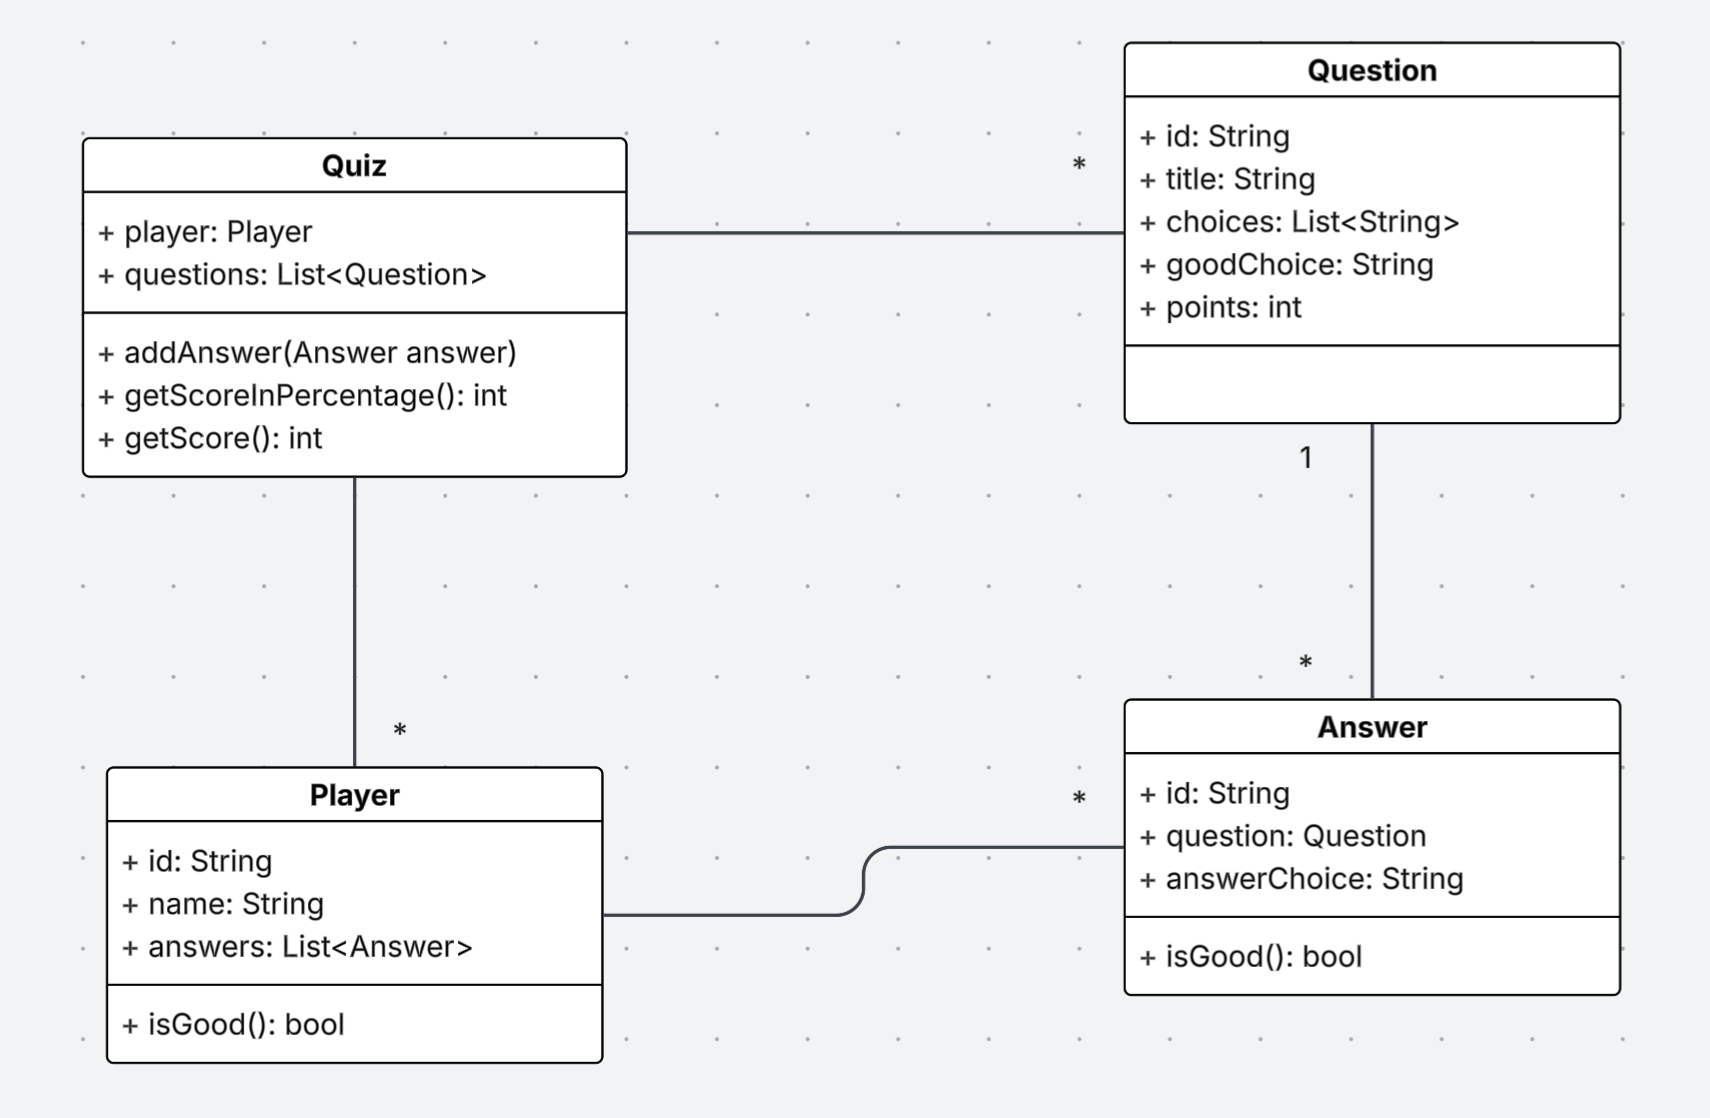
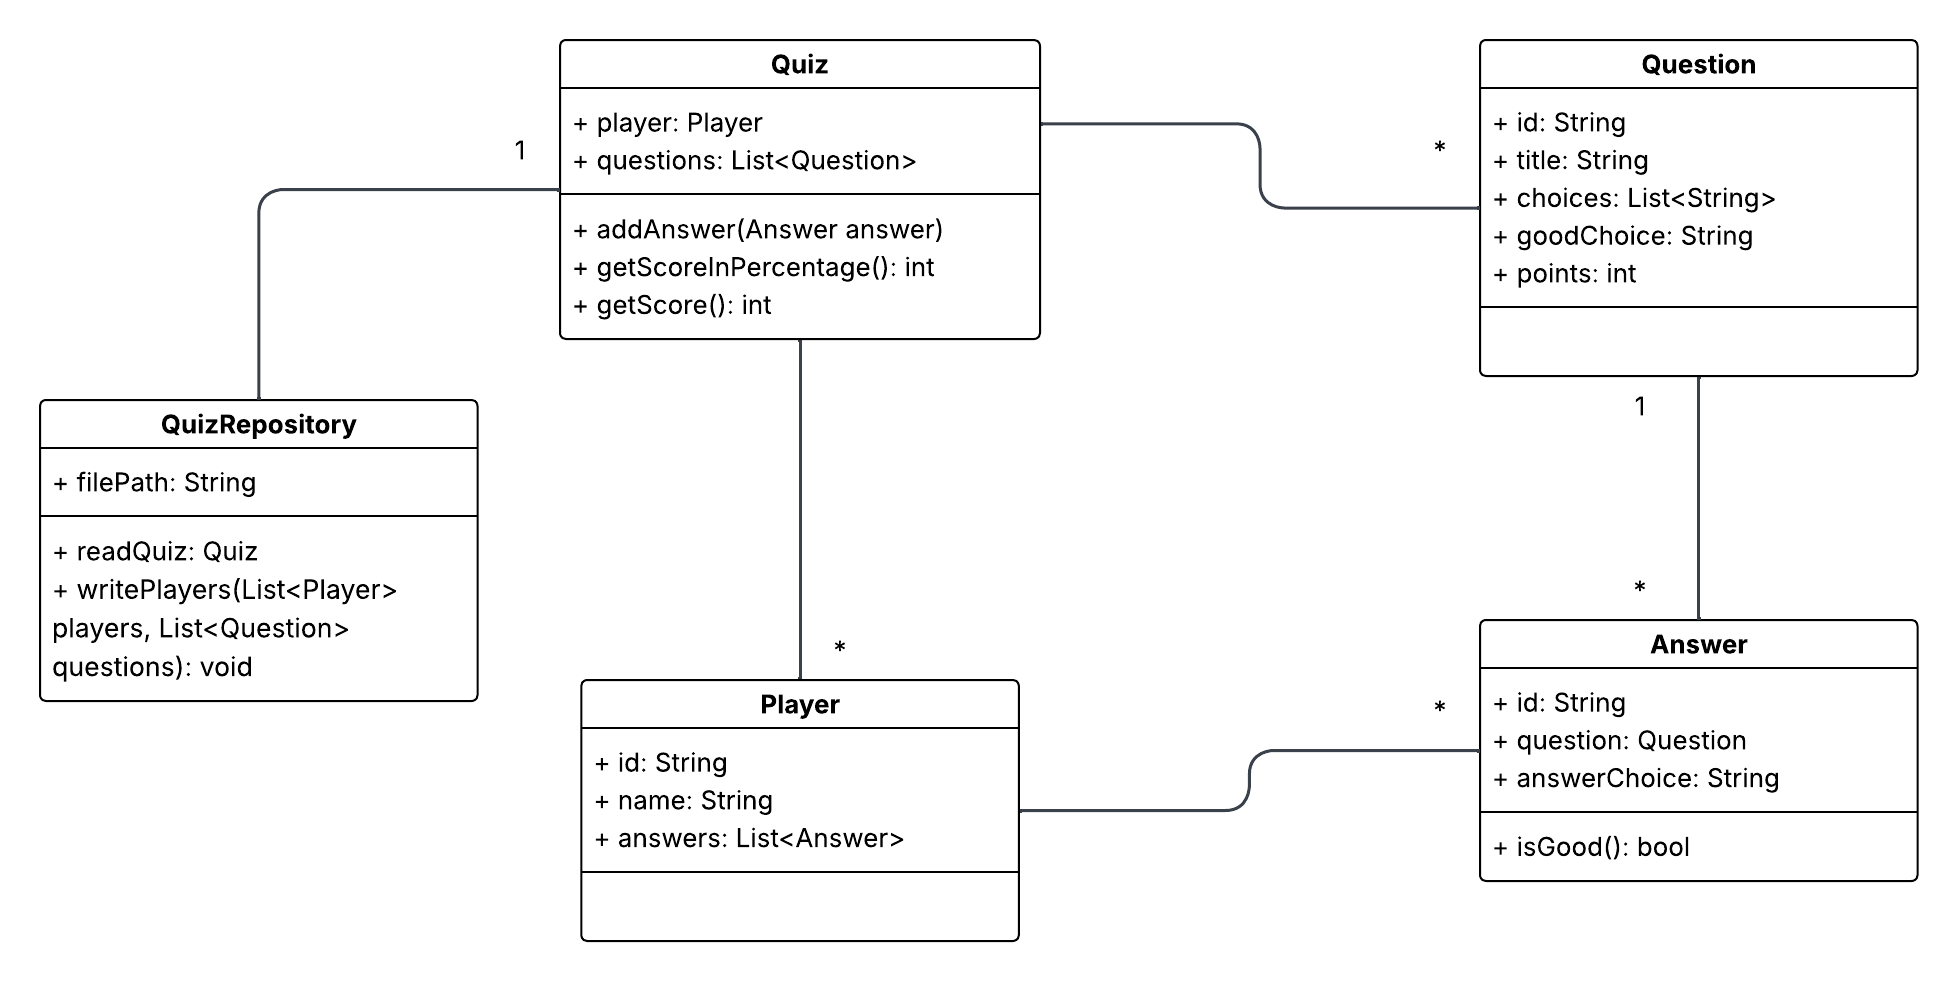
change player to list of players

diff --git a/lib/domain/quiz.dart b/lib/domain/quiz.dart
@@ -9,14 +9,14 @@ class Question {
   final String goodChoice;
   final int points;
 
-  Question({String? id, required this.title, required this.choices, required this.goodChoice, this.points = 1}) : id = uuid.v4();
+  Question({String? id, required this.title, required this.choices, required this.goodChoice, this.points = 1}) : id = id ?? uuid.v4();
 
   factory Question.fromJson(Map<String, dynamic> json) {
     return Question(
-      id: json['id'] as String,
-      title: json['title'] as String,
-      choices: List<String>.from(json['choices']),
-      goodChoice: json['goodChoice'] as String,
+      id: json['id'] as String?,
+      title: json['title'] as String? ?? '',
+      choices: List<String>.from(json['choices'] ?? []),
+      goodChoice: json['goodChoice'] as String? ?? '',
       points: (json['points'] is int) ? json['points'] as int : int.tryParse('${json['points']}') ?? 1,
     );
   }
@@ -37,14 +37,21 @@ class Answer {
   final Question question;
   final String answerChoice;
 
-  Answer({String? id, required this.question, required this.answerChoice}) : id = uuid.v4();
+  Answer({String? id, required this.question, required this.answerChoice}) : id = id ?? uuid.v4();
 
   factory Answer.fromJson(Map<String, dynamic> json, Map<String, Question> questionById) {
     final qid = json['questionId'] as String?;
+    if (qid == null) {
+      throw FormatException('Answer missing questionId: ${json}');
+    }
+    final question = questionById[qid];
+    if (question == null) {
+      throw FormatException('Answer references unknown questionId: $qid');
+    }
 
     return Answer(
-      id: json['id'] as String,
-      question: questionById[qid]!,
+      id: json['id'] as String?,
+      question: question,
       answerChoice: json['answerChoice'] as String? ?? '',
     );
   }
@@ -67,15 +74,25 @@ class Player {
   final String name;
   List<Answer> answers;
 
-  Player({String? id, required this.name, List<Answer>? answers})  : id = uuid.v4(), answers = answers ?? [];
+  Player({String? id, required this.name, List<Answer>? answers})
+      : id = id ?? uuid.v4(),
+        answers = answers ?? [];
 
   factory Player.fromJson(Map<String, dynamic> json, Map<String, Question> questionById) {
-    final answersJson = json['answers'] as List<dynamic>;
-    final answers = answersJson.map((a) => Answer.fromJson(a as Map<String, dynamic>, questionById)).toList();
+    final answersJson = json['answers'] as List<dynamic>? ?? [];
+    final List<Answer> answers = [];
+    for (var a in answersJson) {
+      try {
+        answers.add(Answer.fromJson(a as Map<String, dynamic>, questionById));
+      } catch (e) {
+        // skip invalid answer but warn
+        print('Warning: skipping invalid answer in player ${json['name'] ?? json['id']}: $e');
+      }
+    }
 
     return Player(
-      id: json['id'] as String,
-      name: json['name'] as String,
+      id: json['id'] as String?,
+      name: json['name'] as String? ?? '',
       answers: answers,
     );
   }
@@ -90,38 +107,37 @@ class Player {
 }
 
 class Quiz {
-  final Player player;
+  List<Player> players;
   List<Question> questions;
 
-  Quiz({required this.player, required this.questions});
+  Quiz({required this.players, required this.questions});
 
   factory Quiz.fromJson(Map<String, dynamic> json) {
-    final questionsJson = json['questions'] as List<dynamic>;
+    final questionsJson = json['questions'] as List<dynamic>? ?? [];
     final questions = questionsJson.map((q) => Question.fromJson(q as Map<String, dynamic>)).toList();
 
     final questionById = {for (var q in questions) q.id: q};
 
-    Player player;
-    if (json.containsKey('player') && json['player'] is Map<String, dynamic>) {
-      player = Player.fromJson(json['player'] as Map<String, dynamic>, questionById);
-    } else {
-      player = Player(name: '');
+    List<Player> players = [];
+    if (json.containsKey('players') && json['players'] is List<dynamic>) {
+      players = (json['players'] as List<dynamic>).map((p) => Player.fromJson(p as Map<String, dynamic>, questionById)).toList();
     }
-    return Quiz(player: player, questions: questions);
+
+    return Quiz(players: players, questions: questions);
   }
 
   Map<String, dynamic> toJson() {
     return {
       'questions': questions.map((q) => q.toJson()).toList(),
-      'player': player.toJson(),
+      'players': players.map((p) => p.toJson()).toList(),
     };
   }
 
-  void addAnswer(Answer answer) {
+  void addAnswer(Player player, Answer answer) {
     player.answers.add(answer);
   }
 
-  int getScore() {
+  int getScore(Player player) {
     int totalScore = 0;
     for (Answer answer in player.answers) {
       if (answer.isGood()) {
@@ -131,7 +147,7 @@ class Quiz {
     return totalScore;
   }
 
-  int getScoreInPercentage() {
+  int getScoreInPercentage(Player player) {
     int totalCorrect = 0;
     for (Answer answer in player.answers) {
       if (answer.isGood()) totalCorrect++;

diff --git a/test/quiz_test.dart b/test/quiz_test.dart
@@ -19,37 +19,38 @@ void main() {
   Player p2 = Player(name: 'poy');
   Player p3 = Player(name: 'pin');
 
-  Quiz quizP1 = Quiz(player: p1, questions: [q1, q2]);
-  Quiz quizP2 = Quiz(player: p2, questions: [q1, q2]);
-  Quiz quizP3 = Quiz(player: p3, questions: [q1, q2]);
+  Quiz quiz = Quiz(players: [p1, p2, p3], questions: [q1, q2]);
 
   test('All answers correct (100%) answered by pich', () {
     Answer a1 = Answer(question: q1, answerChoice: 'Paris');
     Answer a2 = Answer(question: q2, answerChoice: '4');
 
-    quizP1.player.answers = [a1, a2];
+    quiz.addAnswer(p1, a1);
+    quiz.addAnswer(p1, a2);
 
-    expect(quizP1.getScoreInPercentage(), 100);
-    expect(quizP1.getScore(), 100);
+    expect(quiz.getScoreInPercentage(p1), 100);
+    expect(quiz.getScore(p1), 100);
   });
 
   test('One answer wrong (50%) answered by poy', () {
     Answer a1 = Answer(question: q1, answerChoice: 'Paris');
     Answer a2 = Answer(question: q2, answerChoice: '5');
 
-    quizP2.player.answers = [a1, a2];
+    quiz.addAnswer(p2, a1);
+    quiz.addAnswer(p2, a2);
 
-    expect(quizP2.getScoreInPercentage(), 50);
-    expect(quizP2.getScore(), 60);
+    expect(quiz.getScoreInPercentage(p2), 50);
+    expect(quiz.getScore(p2), 60);
   });
 
   test('All answers wrong (0%) answered by pin', () {
     Answer a1 = Answer(question: q1, answerChoice: 'Rome');
     Answer a2 = Answer(question: q2, answerChoice: '5');
 
-    quizP3.player.answers = [a1, a2];
+    quiz.addAnswer(p3, a1);
+    quiz.addAnswer(p3, a2);
 
-    expect(quizP3.getScoreInPercentage(), 0);
-    expect(quizP3.getScore(), 0);
+    expect(quiz.getScoreInPercentage(p3), 0);
+    expect(quiz.getScore(p3), 0);
   });
 }

diff --git a/lib/main.dart b/lib/main.dart
@@ -8,7 +8,7 @@ void main() {
   final repo = QuizRepository(quizFilePath);
 
   final Map<String, int> scoreboard = {};
-  final List<Player> currentRunPlayers = []; 
+  final List<Player> currentRunPlayers = [];
 
   print('--- Welcome to the Quiz ---\n');
   while (true) {
@@ -24,19 +24,20 @@ void main() {
     final List<Question> questions = fileQuiz.questions;
 
     Player player = Player(name: name);
-    Quiz quiz = Quiz(player: player, questions: questions);
-    QuizConsole console = QuizConsole(quiz: quiz);
-
-    console.startQuiz();
-
     currentRunPlayers.add(player);
+
+    Quiz quiz = Quiz(players: currentRunPlayers, questions: questions);
+    
+    QuizConsole console = QuizConsole(quiz: quiz);
+    console.startQuiz(player);
+
     try {
       repo.writePlayers(currentRunPlayers, questions);
     } catch (e) {
       print('Failed to save player answers: $e');
     }
 
-    final int scoreInPoints = quiz.getScore();
+    final int scoreInPoints = quiz.getScore(player);
     scoreboard[player.name] = scoreInPoints;
     console.printResult(player, scoreboard);
   }

diff --git a/lib/ui/quiz_console.dart b/lib/ui/quiz_console.dart
@@ -6,7 +6,7 @@ class QuizConsole {
 
   QuizConsole({required this.quiz});
 
-  void startQuiz() {
+  void startQuiz(Player player) {
     print('');
     for (var question in quiz.questions) {
       print('Question: ${question.title} - ( ${question.points} points )');
@@ -16,7 +16,7 @@ class QuizConsole {
 
       if (userInput != null && userInput.isNotEmpty) {
         Answer answer = Answer(question: question, answerChoice: userInput);
-        quiz.addAnswer(answer);
+        quiz.addAnswer(player, answer);
       } else {
         print('No answer entered\n');
       }
@@ -24,8 +24,8 @@ class QuizConsole {
   }
 
   void printResult(Player player, Map<String, int> allPlayerScore) {
-    int scoreInPercentage = quiz.getScoreInPercentage();
-    int scoreInPoints = quiz.getScore();
+    int scoreInPercentage = quiz.getScoreInPercentage(player);
+    int scoreInPoints = quiz.getScore(player);
 
     print('');
     print('${player.name}, your score in percentage: $scoreInPercentage %');

diff --git a/lib/data/quiz_file_provider.dart b/lib/data/quiz_file_provider.dart
@@ -22,7 +22,7 @@ class QuizRepository {
       rethrow;
     }
   }
-
+  
   void writePlayers(List<Player> players, List<Question> questions) {
     try {
       final outFile = File(filePath);
@@ -31,9 +31,18 @@ class QuizRepository {
         outDir.createSync(recursive: true);
       }
 
+      final scoringQuiz = Quiz(players: players, questions: questions);
+
+      final List<Map<String, dynamic>> playersJson = players.map((p) {
+        final map = p.toJson();
+        map['points'] = scoringQuiz.getScore(p);
+        map['percentage'] = scoringQuiz.getScoreInPercentage(p);
+        return map;
+      }).toList();
+
       final Map<String, dynamic> data = {
         'questions': questions.map((q) => q.toJson()).toList(),
-        'players': players.map((p) => p.toJson()).toList(),
+        'players': playersJson,
       };
 
       final encoder = JsonEncoder.withIndent('  ');
